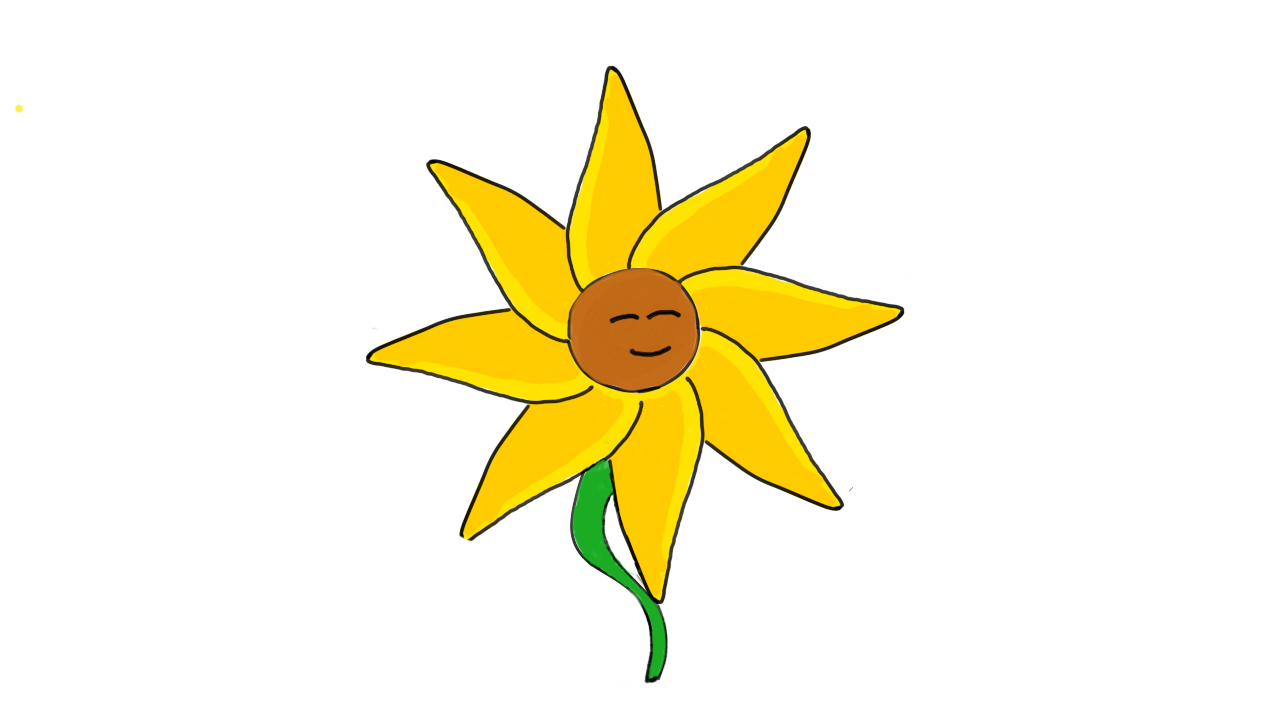
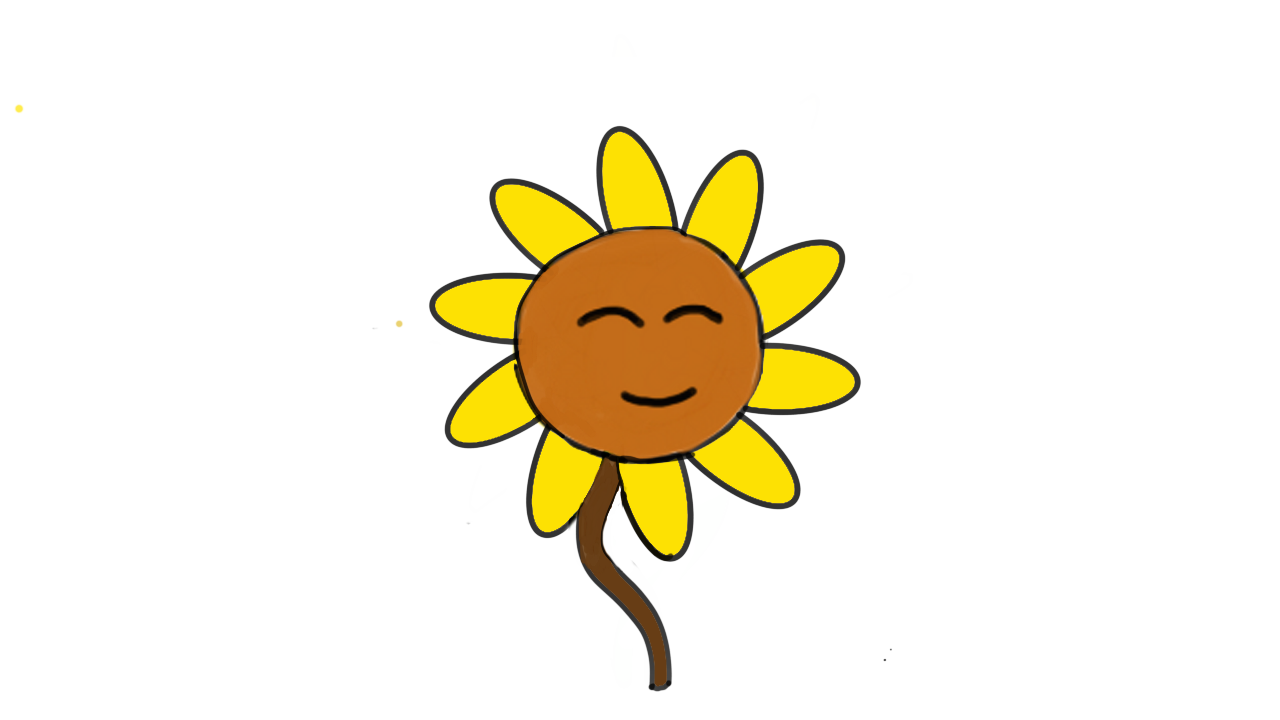
Added Temp Grid with Our Own assets, still need some changes to make it work completely

Changed region(s): [[0.2812, 0.0917, 0.7188, 0.9778]]

diff --git a/Code/PvZ/Assets/Scripts/SetWorld.cs b/Code/PvZ/Assets/Scripts/SetWorld.cs
@@ -38,12 +38,12 @@ public class SetWorld : MonoBehaviour
         {
             for (int j = 0; j < lawn_width; j++)
             {
-                GameObject tile = Instantiate(lawn_tile, new Vector2(-5f + (float)j, 2.9f - 1.6f * (float)i),
+                GameObject tile = Instantiate(lawn_tile, new Vector2(-6.22f + 1.58f * (float)j, 3f - 1.76f * (float)i),
                 Quaternion.identity, transform);
 
                 if (j == 0)
                 {
-                    lanePositions[i] = new Vector2(tile.transform.position.x + 11f, tile.transform.position.y + 0.2f);
+                    lanePositions[i] = new Vector2(tile.transform.position.x + 16f, tile.transform.position.y + 0.3f);
                 }
             }
         }

diff --git a/Code/PvZ/Assets/Scripts/UserEvent.cs b/Code/PvZ/Assets/Scripts/UserEvent.cs
@@ -7,7 +7,7 @@ public class UserEvent : MonoBehaviour
 {
     int plantid = -1;
     //private int SunCost = 25;
-    private bool seedClicked = false;
+    //private bool seedClicked = false;
   //  public GameObject plantTemp;
     public GameObject gm;
     public GameObject[] Plants;
@@ -35,7 +35,7 @@ public class UserEvent : MonoBehaviour
     public void onButtonClick(int id)
     {
         plantid = id;
-        seedClicked = true;
+        //seedClicked = true;
     }
 
     //Modularise this function

diff --git a/Code/PvZ/Assets/Scripts/Tile.cs b/Code/PvZ/Assets/Scripts/Tile.cs
@@ -23,7 +23,7 @@ public class Tile : MonoBehaviour
     {
         if (!has_plant)
         {
-            GameObject plant = (GameObject)Instantiate(p, new Vector3(transform.position.x, transform.position.y, 0), Quaternion.identity);
+            GameObject plant = (GameObject)Instantiate(p, new Vector3(transform.position.x, transform.position.y + 0.7f, 0), Quaternion.identity);
             has_plant = true;
         }
     }
